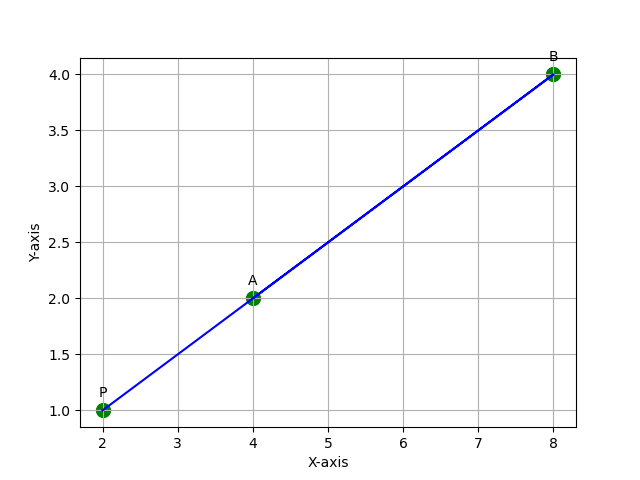
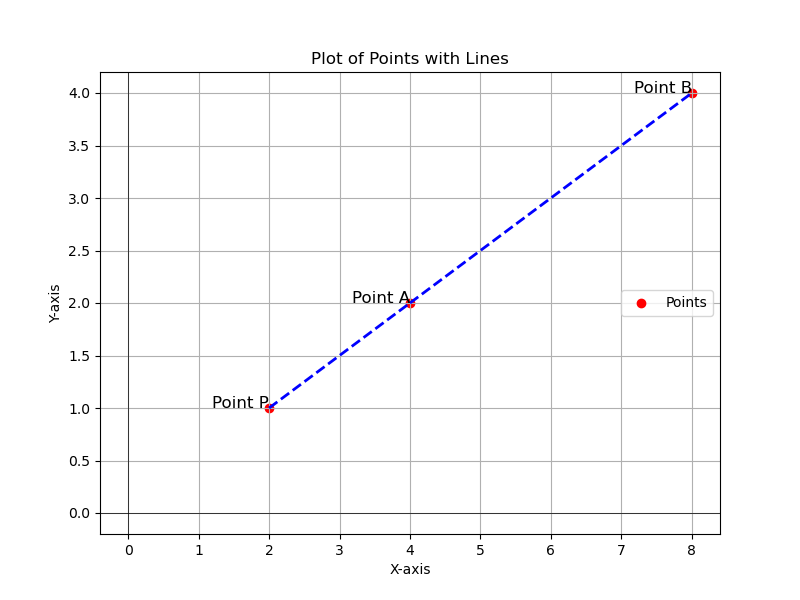
commit1

diff --git a/assignment2/codes/plot.py b/assignment2/codes/plot.py
@@ -1,29 +1,68 @@
 import matplotlib.pyplot as plt
+import re
 
-# Define the coordinates of the points
-x = [4, 8, 2]
-y = [2, 4, 1]
+def read_points_from_file(filename):
+    """Reads points from a text file and returns them as lists of x and y coordinates."""
+    x_coords = []
+    y_coords = []
+    labels = []
+    
+    with open(filename, 'r') as file:
+        lines = file.readlines()
+        
+        for line in lines:
+            line = line.strip()
+            if line.startswith('Point'):
+                # Extract coordinates using a regular expression
+                match = re.search(r'\(([^,]+),\s*([^)]+)\)', line)
+                if match:
+                    try:
+                        x = float(match.group(1).strip())
+                        y = float(match.group(2).strip())
+                        x_coords.append(x)
+                        y_coords.append(y)
+                        # Extract label for plotting
+                        label = line.split(':')[0].strip()
+                        labels.append(label)
+                    except ValueError as e:
+                        print(f"Warning: Could not convert to float. Error: {e}")
+                else:
+                    print(f"Warning: Could not find coordinates in line '{line}'")
+    
+    return x_coords, y_coords, labels
 
-# Define the names for each point
-names = ['A', 'B', 'P']
+def plot_points(x_coords, y_coords, labels):
+    """Plots the given x and y coordinates using matplotlib, including lines between points."""
+    plt.figure(figsize=(8, 6))
+    plt.scatter(x_coords, y_coords, color='red', label='Points')
+    
+    # Plot lines between points
+    for i in range(len(x_coords) - 1):
+        plt.plot([x_coords[i], x_coords[i + 1]], [y_coords[i], y_coords[i + 1]], 'b--', lw=2)
 
-# Create a scatter plot
-plt.scatter(x, y, color='green', marker='o', s=100)
+    # Labeling each point
+    for x, y, label in zip(x_coords, y_coords, labels):
+        plt.text(x, y, f'{label}', fontsize=12, ha='right')
 
-# Connect the points with lines
-plt.plot(x, y, color='blue', linestyle='-', linewidth=1.5)  # Line connecting the points
+    # Set labels and title
+    plt.xlabel('X-axis')
+    plt.ylabel('Y-axis')
+    plt.title('Plot of Points with Lines')
+    plt.legend()
+    plt.grid(True)
+    plt.axhline(0, color='black', linewidth=0.5)
+    plt.axvline(0, color='black', linewidth=0.5)
+    plt.show()
 
-# Annotate each point with its name
-for i, name in enumerate(names):
-    plt.annotate(name, (x[i], y[i]), textcoords="offset points", xytext=(0,10), ha='center')
+def main():
+    filename = 'points.txt'
+    x_coords, y_coords, labels = read_points_from_file(filename)
+    
+    if not x_coords or not y_coords:
+        print("No valid points to plot.")
+    else:
+        plot_points(x_coords, y_coords, labels)
 
-# Add title and labels
-plt.xlabel('X-axis')
-plt.ylabel('Y-axis')
-
-# Show grid
-plt.grid(True)
-
-# Show the plot
-plt.show()
+if __name__ == '__main__':
+    main()
 

diff --git a/assignment2/codes/plot.c b/assignment2/codes/plot.c
@@ -1,0 +1,35 @@
+#include <stdio.h>
+
+int main() {
+    // Define the filename
+    const char *filename = "points.txt";
+
+    // Open the file for writing (create it if it doesn't exist)
+    FILE *file = fopen(filename, "w");
+
+    // Check if the file was created/opened successfully
+    if (file == NULL) {
+        perror("Error opening file");
+        return 1; // Return a non-zero value to indicate failure
+    }
+
+    // Write the coordinates to the file
+    fprintf(file, "Points for plotting:\n");
+    fprintf(file, "Point P: (2, 1)\n");
+    fprintf(file, "Point A: (4, 2)\n");
+    fprintf(file, "Point B: (8, 4)\n");
+
+    // Optional: Write points in a format that might be useful for some plotting libraries
+    fprintf(file, "\nX,Y\n");
+    fprintf(file, "2,1\n");
+    fprintf(file, "4,2\n");
+    fprintf(file, "8,4\n");
+
+    // Close the file
+    fclose(file);
+
+    printf("File '%s' has been created and data has been written.\n", filename);
+
+    return 0; // Return 0 to indicate success
+}
+
